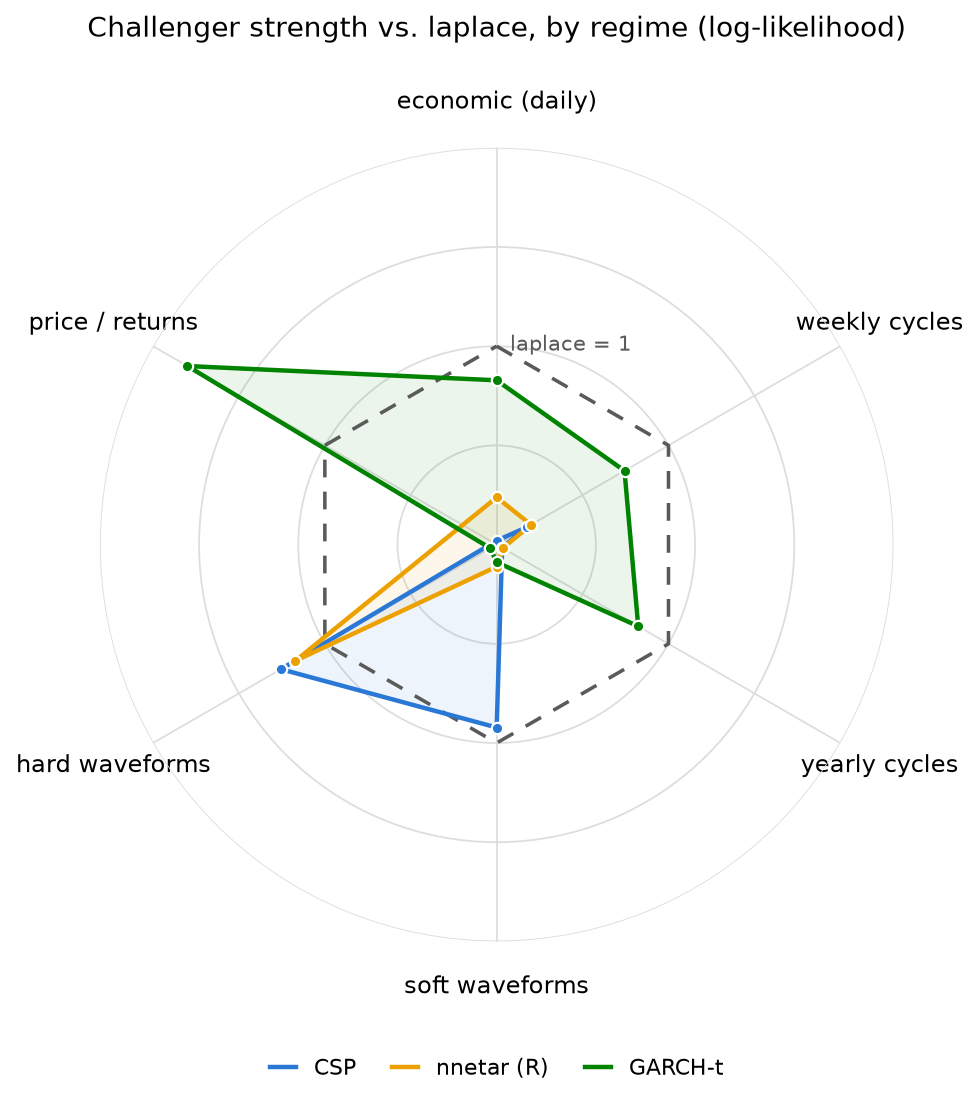
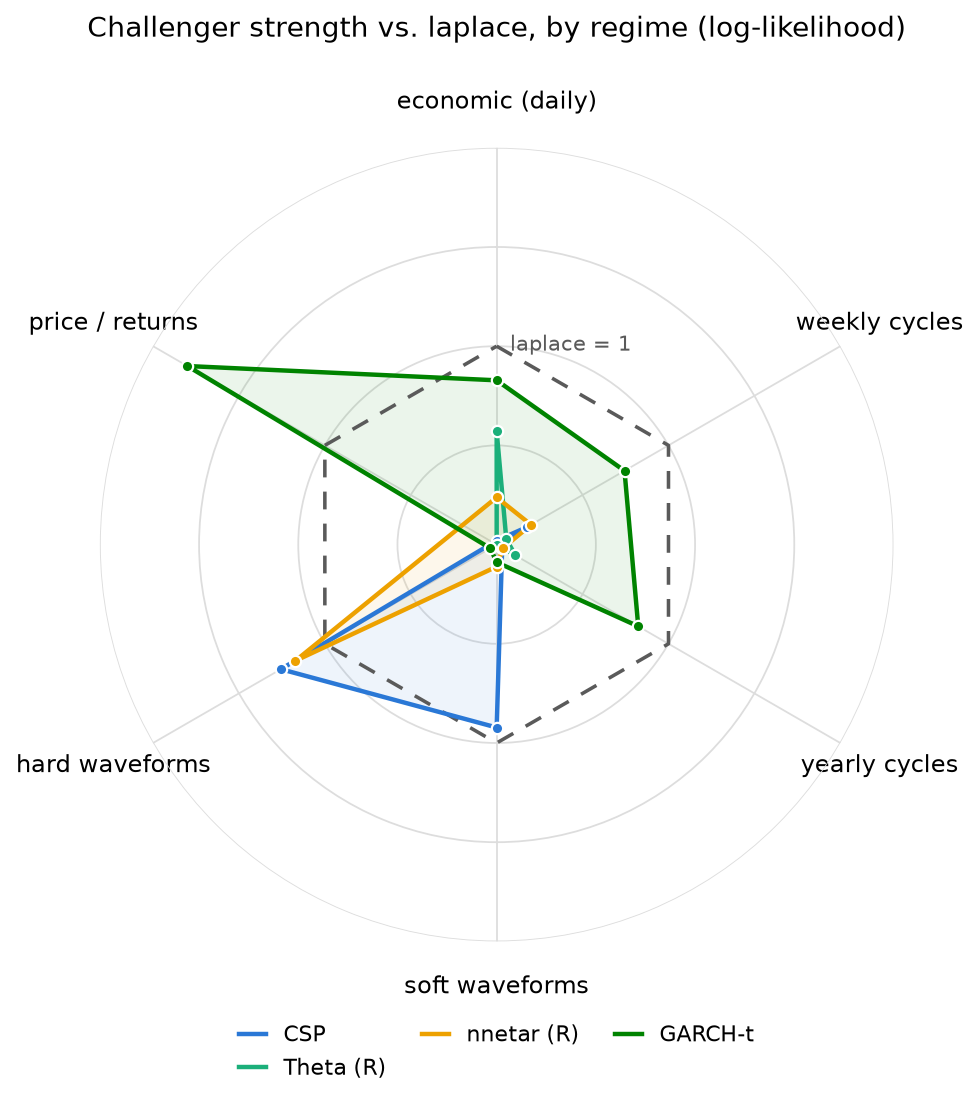
README/site accuracy pass + 4-model radar figure
Language claims were stale/undercounted. There are five parity-locked ports:
Python (reference), JavaScript, R (skaters-r), Julia (Skaters.jl), Rust.

- README: badge and prose now name all five languages (were "Python | JS | R"
  and "Python and JavaScript"); the "JavaScript, R & the browser" section gains
  Julia (Skaters.jl exists, was "planned next") and the Rust core.
- benchmarks/README: 0.8.0 -> 0.13.0; note multi-scale (k>1) and GPD tail-splice
  defaults; drop phantom `kahneman`/`skater` policies (only `laplace` exists).
- index.html: drop the false "every implementation runs over a portable Rust
  core" claim (JS/R/Julia are independent native ports; portability is the JSON
  state). Add the per-regime radar figure to the homepage.
- radar figure now shows the interactive default four challengers
  (CSP/Theta/nnetar/GARCH-t) in the site's slot colours, matching challengers.html.

diff --git a/docs/index.html b/docs/index.html
@@ -79,8 +79,9 @@
     </p>
 
     <p>
-      Every implementation runs over a portable Rust core, checked against the reference to
-      1e-6, so a model fit on a server resumes unchanged in the browser.
+      Each language is an independent, parity-locked port, checked against the reference to
+      1e-6 (Python also has a Rust backend for speed). A fitted model serialises to JSON, so
+      one fit on a server resumes unchanged in the browser.
       <a href="/languages.html">The languages →</a>
     </p>
 
@@ -98,6 +99,17 @@
         sits alone in the top-right — best likelihood, fastest — while the classical, neural, and
         foundation-model baselines trade accuracy for orders of magnitude more compute.
         <a href="/papers.html">The benchmarks →</a></figcaption>
+    </figure>
+
+    <figure class="hero-figure">
+      <img src="./assets/radar.svg" alt="Radar chart of per-regime win-rate against laplace on
+        log-likelihood: CSP, Theta, nnetar and GARCH-t sit inside the dashed laplace ring across
+        the economic, weekly, yearly and waveform regimes; only GARCH-t breaks outside it, on the
+        price/returns axis." />
+      <figcaption>Per-regime win-rate against <code>laplace</code> (log-likelihood, ties split;
+        <code>laplace</code> is the dashed ring). Outside the ring the challenger wins that regime,
+        inside it loses — only GARCH-t breaks out, and only on price/returns.
+        <a href="/challengers.html">Explore it interactively →</a></figcaption>
     </figure>
 
     <p>

diff --git a/benchmarks/comparisons/make_radar_figure.py b/benchmarks/comparisons/make_radar_figure.py
@@ -23,12 +23,12 @@ DATA = os.path.join(_ROOT, "docs", "js", "challenges-radar-data.js")
 
 METRIC = "ll"                       # study headline; matches the site default
 RMAX = 2.0                          # radial cap (GARCH-t's price win reaches ~1.8)
-# Three well-separated challengers, each with a visible lobe: CSP and nnetar win
-# the waveform regimes, GARCH-t hugs the ring on economic/cycles and stars on
-# price. (Theta from the page default sits near the origin here and reads as an
-# invisible line, so it is left to the interactive page.)
-MODELS = ["CSP", "nnetar (R)", "GARCH-t"]
-COLORS = ["#2a78d6", "#eda100", "#008300"]
+# The interactive radar's default four challengers, in the site's slot colours,
+# so the README/homepage figure matches challengers.html exactly: CSP and nnetar
+# win the waveform regimes, GARCH-t stars on price, Theta (R) sits inside the
+# ring (laplace beats it almost everywhere).
+MODELS = ["CSP", "Theta (R)", "nnetar (R)", "GARCH-t"]
+COLORS = ["#2a78d6", "#1baf7a", "#eda100", "#008300"]
 
 
 def load():

diff --git a/README.md b/README.md
@@ -6,7 +6,7 @@ A light, accurate, autonomous distributional forecaster for non-price economic s
 
 <p align="center">
   <a href="https://skaters.microprediction.org/"><img src="https://img.shields.io/badge/docs%20%26%20live%20demos-skaters.microprediction.org-4a3aff?style=for-the-badge" alt="Documentation and live demos"></a>
-  <a href="#javascript-r--the-browser"><img src="https://img.shields.io/badge/implementations-Python%20%7C%20JavaScript%20%7C%20R-1a8c4a?style=for-the-badge" alt="Python, JavaScript and R"></a>
+  <a href="#javascript-r-julia-rust--the-browser"><img src="https://img.shields.io/badge/implementations-Python%20%7C%20JS%20%7C%20R%20%7C%20Julia%20%7C%20Rust-1a8c4a?style=for-the-badge" alt="Python, JavaScript, R, Julia and Rust"></a>
 </p>
 
 Laplace beats (almost) everything.
@@ -24,7 +24,7 @@ And it beats them regime by regime — everywhere except price.
 <p align="center"><sub>Per-regime win-rate against <code>laplace</code> (log-likelihood, ties split, <code>laplace</code> = the dashed ring). Outside the ring the challenger wins that regime; inside, <code>laplace</code> does. Only GARCH-t breaks out, and only on price/returns. <a href="https://skaters.microprediction.org/challengers.html">Explore it interactively →</a></sub></p>
 
 
-Laplace is fast, dependency-free, **online** univariate *distributional* forecasting in **Python _and_ JavaScript** (identical to 1e-6, browser-ready via [Pyodide](https://skaters.microprediction.org/demos/pyodide.html)). It's a **general-purpose forecaster for non-price economic series**: on 5,402 continuous non-price FRED change-series *Laplace* wins the per-series held-out **log-likelihood** race against eleven of twelve baselines — AutoARIMA, AutoETS, the reference R forecasters (auto.arima, thetaf, ADAM, nnetar), conformal, and zero-shot foundation models — typically on 82–98% of series. The lone exception is **GARCH-t**, a 50/50 coin-flip that the paper resolves by *martingality*: Laplace wins decisively on series with mean structure, GARCH-t on near-random-walks.
+Laplace is fast, dependency-free, **online** univariate *distributional* forecasting with parity-locked ports in **Python, JavaScript, R, Julia and Rust** (all matched to the reference within 1e-6; JavaScript and Pyodide run it in the [browser](https://skaters.microprediction.org/demos/pyodide.html)). It's a **general-purpose forecaster for non-price economic series**: on 5,402 continuous non-price FRED change-series *Laplace* wins the per-series held-out **log-likelihood** race against eleven of twelve baselines — AutoARIMA, AutoETS, the reference R forecasters (auto.arima, thetaf, ADAM, nnetar), conformal, and zero-shot foundation models — typically on 82–98% of series. The lone exception is **GARCH-t**, a 50/50 coin-flip that the paper resolves by *martingality*: Laplace wins decisively on series with mean structure, GARCH-t on near-random-walks.
 
 **Not for price/return series:** 
 We recommend GARCH-t there instead. 
@@ -377,7 +377,7 @@ def my_transform():
     return forward, inverse_k
 ```
 
-## JavaScript, R & the browser
+## JavaScript, R, Julia, Rust & the browser
 
 The whole library is also a zero-dependency **JavaScript port** (`docs/js/skaters/`) — every
 transform, ensemble, and named policy. It is verified against the Python reference by a parity
@@ -391,8 +391,12 @@ parity values at 1e-6, including the transforms, ensembles, lattice
 projection, calibration state, and the GPD tail splice. Continuous
 installs via
 `install.packages("skaters", repos = "https://microprediction.r-universe.dev")`.
-A Julia port is planned next; the parity vectors make each new language a
-porting exercise with a built-in referee.
+
+The **Julia port** ([microprediction/Skaters.jl](https://github.com/microprediction/Skaters.jl))
+and a portable **Rust core** (`rust/`, the fast native backend, with Python
+bindings in `rust/python/`) complete five parity-locked implementations. The
+shared parity vectors make each new language a porting exercise with a built-in
+referee.
 
 ```html
 <script type="module">

diff --git a/benchmarks/README.md b/benchmarks/README.md
@@ -283,7 +283,7 @@ its **best calibration window per series**:
 > w400 96.9%, w750 97.0% (family 64.8 / 66.7 / 66.8%) — so no retrospective choice
 > is doing the work.
 
-Per-policy (current 0.8.0 set; each a single fixed config), CRPS vs best-of-crepes:
+Per-policy (current 0.13.0 set; each a single fixed config), CRPS vs best-of-crepes:
 
 | policy | CRPS raw | CRPS family | mean logpdf |
 |---|---|---|---|
@@ -309,7 +309,7 @@ both — likelihood trunk, CRPS leaf — beats the likelihood-only policy on **e
 axis (CRPS raw, CRPS family, *and* likelihood): a CRPS-fit leaf is more
 outlier-robust, so it even generalises slightly better on likelihood. No trade.
 
-This is the **0.8.0 default**: `laplace(k)` *is* the top row (CRPS tail + sticky);
+This is the **0.13.0 default**: `laplace(k)` *is* the top row (CRPS terminal leaf, sticky lattice, GPD tail-splice on, and multi-scale at `k>1`);
 `laplace(k, objective="likelihood")` is the log-tail row; `laplace(k,
 sticky=False)` turns off the lattice projection (the `laplace-nostick` row).
 
@@ -379,4 +379,4 @@ with `crepes` + a FRED key).
 - `naive-gauss` — last value + rolling Gaussian residual.
 - `conformal-PD` — the conformal foil (above).
 - `scale-mix leaf` — the discrepancy-from-N(0,1) leaf over a simple EMA mean.
-- `laplace` / `kahneman` / `skater` — the named policies (terminal-leaf ensemble).
+- `laplace` — the one named policy (terminal-leaf ensemble), with `objective=` and `sticky=` knobs.